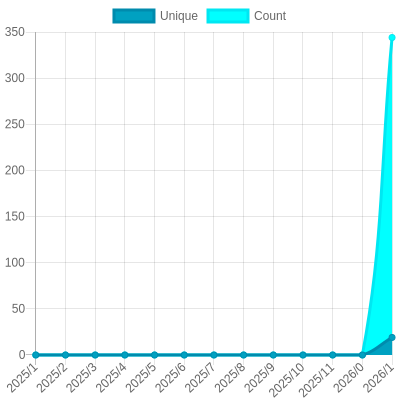
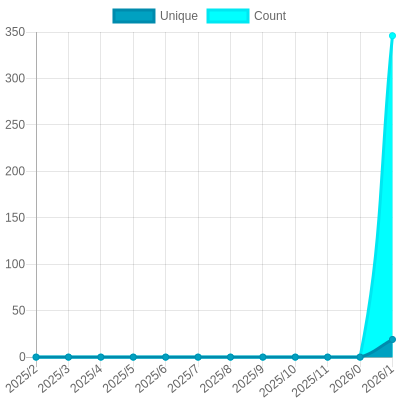
Update views

diff --git a/README.md b/README.md
@@ -26,18 +26,18 @@ The project created and maintained by [gayanvoice](https://github.com/gayanvoice
 			</a>
 		</td>
 		<td>
-			2025/2/26 12:44 AM UTC
+			2025/2/27 12:00 AM UTC
 		</td>
 		<td>
-			19
+			20
 		</td>
 		<td>
-			<img alt="Response time graph" src="https://github.com/melogabriel/profile-views-counter/raw/master/graph/411425982/small/year.png" height="20"> 575
+			<img alt="Response time graph" src="https://github.com/melogabriel/profile-views-counter/raw/master/graph/411425982/small/year.png" height="20"> 612
 		</td>
 	</tr>
 </table>
 
-<small><i>Last updated on 2025/2/28 6:13 PM UTC</i></small>
+<small><i>Last updated on 2025/3/1 12:50 AM UTC</i></small>
 
 ## ✂Copy and 📋 Paste
 ### Total Views Badge

diff --git a/readme/411425982/year.md b/readme/411425982/year.md
@@ -26,7 +26,7 @@
 			<code>19</code>
 		</td>
 		<td>
-			<code>344</code>
+			<code>346</code>
 		</td>
 	</tr>
 	<tr>
@@ -150,21 +150,10 @@
 			<code>0</code>
 		</td>
 	</tr>
-	<tr>
-		<td>
-			<code>2024/2/1</code>
-		</td>
-		<td>
-			<code>0</code>
-		</td>
-		<td>
-			<code>0</code>
-		</td>
-	</tr>
 </table>
 
 </details>
-<small><i>Last updated on 2025/2/28 6:12 PM UTC</i></small>
+<small><i>Last updated on 2025/3/1 12:50 AM UTC</i></small>
 
 ## ✂Copy and 📋 Paste
 ### SVG Badge
